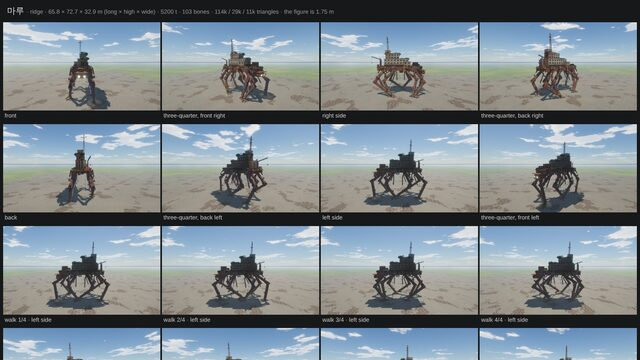
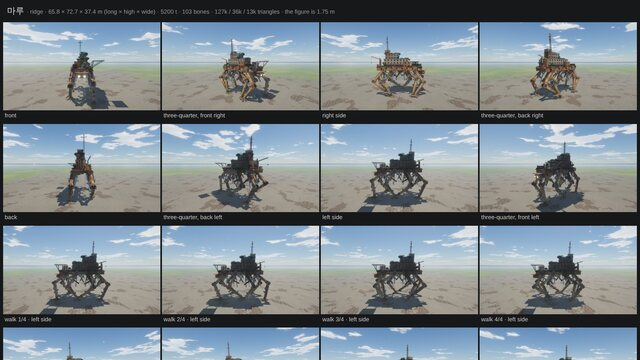
machine-wilds: the relic's cards and sheets in its new paint, a morning of haze in the valley's round, demos rebuilt
Claude-Session: https://claude.ai/code/session_01LWivNf8Y6UtuVJbT9XD7sv

diff --git a/docs/machine-wilds/demo/iron-valley/index.html b/docs/machine-wilds/demo/iron-valley/index.html
@@ -2015,6 +2015,9 @@ void main(){
     autumn:{ cloud: 0.42, dark: 0.0, rain: 0, snowfall: 0, season: 0.45, wind: 0.34, fog: 0.0032, fogH: 0.042, turb: 1.4 },
     // mist: low cloud lying in the valleys — the air itself is what you see; lamps cut cones in it and far things are shapes
     mist:  { cloud: 1.0, dark: 0.3, rain: 0, snowfall: 0, season: 0, wind: 0.1, fog: 0.0125, fogH: 0.034, turb: 1.8, glow: 1 },
+    // haze: a thin bright mist the sun comes through — far things are pale shapes, near things keep their colour, a low sun
+    // stands in shafts.  `cap`: how thick the hour may make it (a dawn does not turn it into a white wall)
+    haze:  { cloud: 0.2, dark: 0.0, rain: 0, snowfall: 0, season: 0, wind: 0.12, fog: 0.0052, fogH: 0.030, turb: 1.4, glow: 0.6, cap: 0.0095 },
   };
   W.cur = Object.assign({}, W.looks.clear);
   W.set = (o) => {
@@ -2075,7 +2078,7 @@ void main(){
     // morning mist lies thick and burns off by nine; an evening only goes a little golden
     const low = LR.sm(0.42, 0.02, Math.abs(sunY)) * (1 - LR.sat(W.rain + W.snowfall)), dawn = LR.sm(4.2, 5.4, W.tod) * LR.sm(9.2, 7.4, W.tod);
     // (a look that is already mist does not grow sixfold at dawn: past 0.016 the valley is a white wall and nothing reads)
-    const fog = Math.max(c.fog * (1 + 0.25 * low), Math.min(c.fog * (1 + low * (0.6 + 4.6 * dawn)), 0.016)) + night * 0.0012;
+    const fog = Math.max(c.fog * (1 + 0.25 * low), Math.min(c.fog * (1 + low * (0.6 + 4.6 * dawn)), (W.looks[W.want.weather] || {}).cap || 0.016)) + night * 0.0012;
     U.uFog.value.set(fog, LR.lerp(c.fogH, 0.02, low * 0.5), W.baseY, 0);
     // woods hold damp air: thick at dawn and toward evening, so the sun shows as shafts between the trunks
     if (LR.canopy) { const lowS = LR.sm(0.66, 0.14, sunY) * day; LR.render.U.uCanopy.value.set(LR.canopy.shade, LR.canopy.mist * (0.004 + 0.017 * lowS) * (1 - 0.75 * LR.sat(W.rain + W.snowfall)), 0, 0); }
@@ -4512,7 +4515,7 @@ void main(){
     // style 'shell': a dark spar inside pale covers (the newer machines) · 'girder': riveted box girders, bare and rusted
     limbs(o = {}) { for (const l of this.kin.limbs) this.limb(l, Object.assign({}, o, l.s.style ? { style: l.s.style } : {})); return this; }
     limb(l, o = {}) {
-      const k = this, w = l.width, d = l.drum, style = o.style || 'shell', cover = style === 'shell' ? 'shell' : 'rust', spar = style === 'shell' ? 'dark' : 'frame';
+      const k = this, w = l.width, d = l.drum, style = o.style || 'shell', casing = style === 'casing', cover = style === 'shell' ? 'shell' : casing ? (k.pal.casing ? 'casing' : 'shell') : 'rust', spar = style === 'shell' ? 'dark' : 'frame', works = k.pal.paint ? 'paint' : cover;      /* casing: the spar boxed in painted plate, a round housing over every joint, a pad under the foot — a heavy leg (roles: casing, paint) */
       const cheek = (g, y0, y1, depth) => { for (const sx of [-1, 1]) g.box(sx * w * 0.56, (y0 + y1) / 2, 0, w * 0.17, y1 - y0, depth, { soft: 0.25 }); };
       const pin = (y, z = 0) => { k.mat('steel'); k.xcyl(-w * 0.72, w * 0.72, y, z, d * 0.2); k.mat('joint'); for (const sx of [-1, 1]) { k.xcyl(sx * w * 0.645, sx * w * 0.72, y, z, d * 0.37, { sides: 16 }); k.bolts('x', [sx * w * 0.72, y, z], d * 0.28, 8, d * 0.035, { dir: sx }); } k.fitPin(l, y, z); };
       // the hip: a bearing the whole leg swings out on, and the yoke the thigh hangs in (mammal) — or a turret with an arm (insect)
@@ -4530,7 +4533,13 @@ void main(){
           // the spar, and its covers
           const taper = last ? 0.72 : 0.88, sw = w * (style === 'shell' ? 0.36 : 0.56), sd = d * (style === 'shell' ? 0.5 : 0.78);
           k.mat(spar); k.loft('y', [[t0 * 0.6, sd * 0.5, sw * 0.5, 0, 0, 5], [L * 0.5, sd * 0.5 * (1 + taper) / 2, sw * 0.5, 0, 0, 5], [t1 + d * 0.2, sd * 0.5 * taper, sw * 0.5 * 0.94, 0, 0, 5]], { sides: 12 });
-          if (style === 'shell') { k.mat(cover); const a = t0 + L * 0.06, b = t1 - L * 0.05, bulge = 0.5 + 0.12 * (1 - i / l.n);
+          if (casing) { const a = t0 + L * 0.04, b = t1 - L * 0.04, cw = w * 0.76, c0 = sd * 1.18, c1 = sd * 1.18 * taper, at = (y) => c0 + ((c1 - c0) * (y - a)) / (b - a);
+            // plate all round, closed at both ends; seams where the plates meet; a band of the works' colour under the joint; the housing the joint turns in
+            k.mat(cover); k.loft('y', [[a, c0 * 0.43, cw * 0.44, 0, 0, 6], [a + L * 0.04, c0 * 0.5, cw * 0.5, 0, 0, 6], [b - L * 0.04, c1 * 0.5, cw * 0.5, 0, 0, 6], [b, c1 * 0.43, cw * 0.44, 0, 0, 6]], { sides: 16 });
+            if (k.mid) { k.mat('frame'); const nr = Math.max(2, Math.round((b - a) / (d * 1.7))); for (let q = 1; q < nr; q++) { const y = a + ((b - a) * q) / nr; g.box(0, y, 0, cw * 1.03, d * 0.05, at(y) * 1.03, { soft: 0.1 }); } }
+            k.mat(works); { const y0 = a + L * 0.06, y1 = a + L * 0.17; k.loft('y', [[y0, at(y0) * 0.515, cw * 0.515, 0, 0, 6], [y1, at(y1) * 0.515, cw * 0.515, 0, 0, 6]], { sides: 16, caps: false }); }
+            for (const sx of [-1, 1]) { k.mat(works); k.xcyl(sx * w * 0.5, sx * w * 0.67, 0, 0, d * 0.66, { sides: 20 }); k.mat('joint'); k.xcyl(sx * w * 0.67, sx * w * 0.705, 0, 0, d * 0.5, { sides: 16 }); k.bolts('x', [sx * w * 0.67, 0, 0], d * 0.58, 12, d * 0.035, { dir: sx }); } }
+          else if (style === 'shell') { k.mat(cover); const a = t0 + L * 0.06, b = t1 - L * 0.05, bulge = 0.5 + 0.12 * (1 - i / l.n);
             // two covers, front and back, with the spar showing in the gap between them at the sides
             for (const [f0, f1, off] of [[-0.42 * Math.PI, 0.42 * Math.PI, d * 0.1], [0.58 * Math.PI, 1.42 * Math.PI, -d * 0.1]])
               k.loft('y', [[a, d * 0.28, w * 0.3, off, 0, 3], [a + L * 0.08, d * bulge, w * 0.5, off, 0, 3], [L * 0.5, d * bulge * 0.94, w * 0.5, off, 0, 3], [b - L * 0.1, d * bulge * taper, w * 0.46, off, 0, 3], [b, d * 0.26, w * 0.28, off, 0, 3]], { sides: 14, from: f0, to: f1, caps: false });
@@ -4549,7 +4558,9 @@ void main(){
       }
       // the foot: a ball in the cup, a hub under it, toes on pins
       k.bone(`foot_${l.name}`, (g) => { const b = l.ball; k.mat('steel'); k.ball(0, 0, 0, b * 0.64); k.mat('frame'); g.lathe(0, 0, [[b * 0.5, -b * 0.25], [b * 1.02, -b * 0.42], [b * 1.12, -b * 0.8], [b * 0.9, -b], [0.01, -b]], { sides: k.n(16) });
-        if (k.mid) { k.mat('joint'); for (const a of l.toes) { const ca = Math.cos(a * D2R), sa = Math.sin(a * D2R); g.box(ca * b * 0.75, -b * 0.42, sa * b * 0.75, b * 0.5, b * 0.46, b * 0.5, { soft: 0.3 }); } } k.fitFoot(l); });
+        if (k.mid) { k.mat('joint'); for (const a of l.toes) { const ca = Math.cos(a * D2R), sa = Math.sin(a * D2R); g.box(ca * b * 0.75, -b * 0.42, sa * b * 0.75, b * 0.5, b * 0.46, b * 0.5, { soft: 0.3 }); } }
+        if (casing) { k.mat('frame'); g.box(0, -b * 0.86, 0, b * 3.0, b * 0.28, b * 3.0, { soft: 0.12 }); k.mat(works); g.box(0, -b * 0.62, 0, b * 2.3, b * 0.22, b * 2.3, { soft: 0.2 }); }      /* a pad: the weight spread over a square of plate */
+        k.fitFoot(l); });
       l.toes.forEach((a, t) => k.bone(`toe${t}_${l.name}`, (g) => { const b = l.ball, L = l.toeLen, heel = Math.abs(a) > 120, LL = heel ? L * 0.62 : L;
         k.mat('joint'); k.xcyl(-b * 0.36, b * 0.36, 0, 0, b * 0.3, { sides: 12 });
         k.mat(style === 'shell' ? 'dark' : 'frame'); k.loft('y', [[b * 0.1, b * 0.3, b * 0.3, 0, 0, 4], [LL * 0.45, b * 0.26, b * 0.36, -b * 0.03, 0, 4], [LL * 0.86, b * 0.17, b * 0.28, -b * 0.1, 0, 4], [LL, b * 0.05, b * 0.06, -b * 0.2, 0, 3]], { sides: 10 });
@@ -8557,10 +8568,10 @@ V.machines = () => {
       // it sets its load down: rises a little first, folds until the bed is low, waits, then stands past its height and settles
       kneel: { dur: 12, main: 'body.dy', keys: { 'body.dy': [[0, 0], [1.0, 0.2], [4.0, -1.7], [8.2, -1.7], [10.6, 0.22], [12, 0]], 'body.pitch': [[0, 0], [1.0, 0.8], [4.0, -2.2], [8.2, -2.2], [10.6, 0.6], [12, 0]], 'head.pitch': [[0, 0], [1.0, -6], [4.2, 14], [8.2, 12], [10.8, -3], [12, 0]], light: [[0, 1], [3.6, 1], [4.2, 0.45], [8, 0.45], [8.6, 1.2], [12, 1]] } } } });
   // 마루: a relic on eight legs — a relay station that never stopped walking its rounds
-  const TL = { kind: 'mammal', width: 2.6, drum: 3.0, bar: 0.5, ball: 1.6, toes: 4, toeLen: 5.0, act: [1, 1], hipDrop: 1.5, style: 'girder', actLat: 1.5 };
+  const TL = { kind: 'mammal', width: 3.6, drum: 3.0, bar: 0.5, ball: 1.6, toes: 4, toeLen: 5.0, act: [1, 1], hipDrop: 1.5, style: 'casing', actLat: 1.5 };
   const titanLegs = [[18, 2.5, 1, 'A'], [6, 1.5, 1, 'B'], [-6, -1.5, -1, 'C'], [-18, -2.5, -1, 'D']].map(([x, dx, knee, n]) => Object.assign({}, TL, { name: n + 'L', at: [x, -2, -9], segs: [17, 18.5], knee, home: [x + dx, -12.5] }));
   M.define('ridge', { title: '마루', age: 1, tonnes: 5200, ride: 34, belly: [20, 4, 7], aware: 0, lensGain: 22, build: (k) => V.parts.ridge(k),
-    palette: { frame: ['rustplate', '#bdb4a4'], rust: ['rustplate', '#d9cfbf'], dark: ['paintmetal', '#3a3d3b'], shell: ['concrete', '#c9c6be'] },
+    palette: { frame: ['paintmetal', '#8f8c7e'], rust: ['rustplate', '#d9cfbf'], dark: ['paintmetal', '#3a3d3b'], shell: ['concrete', '#c9c6be'], casing: ['paintmetal', '#cbc5b0'], paint: ['paintmetal', '#c99f2e'] },      /* grey works paint gone to rust, cream casings, the yellow of what moves or may be stepped off */
     limbs: [...titanLegs, ...titanLegs.map(M.mirror)], neck: { at: [24, -3.5, 0], links: [[3.2, -62]] }, head: { len: 6 },
     extras: [{ name: 'mast', type: 'lag', parent: 'body', at: [-14, 16, 2], dir: [0, 1, 0], len: 22, lag: 0.9, gain: 1.2, maxDeg: 5 }, { name: 'cable_1', type: 'lag', parent: 'body', at: [10, -4.5, -5], dir: [0, -1, 0], len: 13, lag: 1.1, gain: 1.4, maxDeg: 16 }, { name: 'cable_2', type: 'lag', parent: 'body', at: [-9, -4.5, 4], dir: [0, -1, 0], len: 17, lag: 1.3, gain: 1.4, maxDeg: 16 }, { name: 'cable_3', type: 'lag', parent: 'body', at: [-2, -4.5, -6], dir: [0, -1, 0], len: 9, lag: 0.9, gain: 1.4, maxDeg: 16 }],
     gait: { cycle: 15, duty: 0.68, stride: 15, lift: 3.4, offsets: { AL: 0, BL: 0.535, CL: 0.07, DL: 0.605, AR: 0.5, BR: 0.035, CR: 0.57, DR: 0.105 }, crouch: 0.6, dip: 0.9, dipTime: 1.7, sway: 1.1, roll: 0.9, nod: 0.5, yaw: 0.3, footPitch: 8, toeCurl: 10, neckSway: 2, follow: [0.5, 0.25], smooth: 0.5, footTilt: 30, settle: 0.9, settleTime: 3.2, gather: 6, gatherDip: 0.9, gatherBack: 0.8, ease: 16, clear: 1.6 },
@@ -8922,19 +8933,21 @@ V.parts = {
   },
   // 마루: a deck of girders as long as a street, a station on it gone to ruin and moss, a prow with two great eyes
   ridge(k) {
-    k.limbs({ style: 'girder' });
+    k.limbs({ style: 'casing' });
     k.bone('body', (g) => {
       // the deck truss: two box girders, cross frames at every hip, a plated deck
       k.mat('frame'); for (const s of [-1, 1]) g.box(0, -2.2, s * 8.2, 52, 3.4, 2.2, { soft: 0.05, grain: 'x' }); for (const x of [18, 6, -6, -18]) { g.box(x, -2.2, 0, 3.4, 3.0, 18.4, { soft: 0.05 }); for (const s of [-1, 1]) g.box(x, -1.6, s * 9.6, 4.6, 4.6, 1.6, { soft: 0.1 }); }
       if (k.mid) { k.mat('rust'); for (let x = -23; x <= 23; x += 5.8) for (const s of [-1, 1]) { g.beam([x, -3.8, s * 7.2], [x + 2.9, -0.6, s * 7.2], 0.4, 0.4, { caps: false }); g.beam([x + 2.9, -0.6, s * 7.2], [x + 5.8, -3.8, s * 7.2], 0.4, 0.4, { caps: false }); } }
       k.mat('rust'); g.box(0, -0.35, 0, 54, 0.5, 19.6, { soft: 0.03 });
+      // the girders' fascia: painted panels bay by bay, yellow and cream by turns, what is left of them
+      for (const s of [-1, 1]) for (let i = 0; i < 8; i++) { const x = -21 + i * 6; k.mat(i % 2 ? 'casing' : 'paint'); g.box(x, -2.2, s * 9.37, 5.2, 2.7, 0.14, { soft: 0.1 }); }
       // the station: a long house in three steps, panelled in concrete, with rows of windows (some still lit after dark)
-      const house = (x, y, z, sx, sy, sz, seed) => { k.mat('shell', { seed }); g.box(x, y + sy / 2, z, sx, sy, sz, { soft: 0.03, ao: [0.6, 1] }); k.mat('dark'); g.box(x, y + sy + 0.2, z, sx + 0.8, 0.4, sz + 0.8, { soft: 0.1 });
+      const house = (x, y, z, sx, sy, sz, seed, role = 'shell') => { k.mat(role, { seed }); g.box(x, y + sy / 2, z, sx, sy, sz, { soft: 0.03, ao: [0.6, 1] }); k.mat('dark'); g.box(x, y + sy + 0.2, z, sx + 0.8, 0.4, sz + 0.8, { soft: 0.1 });
         const rows = Math.floor(sy / 3.2), cols = Math.floor(sx / 3.4); for (let r = 0; r < rows; r++) for (let c = 0; c < cols; c++) for (const s of [-1, 1]) { const wx = x - sx / 2 + (c + 0.5) * (sx / cols), wy = y + 1.9 + r * 3.2; g.mat('glass', { flags: LR.FLAG.WINDOW, seed: (seed * 31 + r * 7 + c * 13 + (s > 0 ? 5 : 0)) & 255 }); g.quad([wx - 1.0, wy - 0.8, z + s * (sz / 2 + 0.04)], [wx + 1.0, wy - 0.8, z + s * (sz / 2 + 0.04)], [wx + 1.0, wy + 0.8, z + s * (sz / 2 + 0.04)], [wx - 1.0, wy + 0.8, z + s * (sz / 2 + 0.04)], { hint: [0, 0, s] }); } };
-      house(-4, 0, -1, 30, 9.8, 11, 3); house(-9, 9.8, -1.5, 17, 6.6, 8.5, 5); house(9, 0, 5.2, 8, 6.4, 6.4, 7); house(-15, 16.4, -1.5, 6, 4, 6, 9);
+      house(-4, 0, -1, 30, 9.8, 11, 3); house(-9, 9.8, -1.5, 17, 6.6, 8.5, 5); house(9, 0, 5.2, 8, 6.4, 6.4, 7, 'paint'); house(-15, 16.4, -1.5, 6, 4, 6, 9, 'casing');
       // tanks, a crane jib long since stuck, the foot of the mast
-      k.mat('rust'); for (const [x, z] of [[19, -5], [19, -1.2], [22.6, -3]]) { g.tube([[x, 0, z], [x, 6.4, z]], 1.7, { sides: k.n(14), caps: true }); } g.tube([[15, 2.2, 6.5], [23.5, 2.2, 6.5]], 1.9, { sides: k.n(14), caps: true });
-      k.mat('frame'); g.beam([-22, 0, 6], [-22, 9, 6], 1.0, 1.0); g.beam([-22, 9, 6], [-33, 12.5, 7.5], 0.7, 0.9); g.mat('iron', { tint: '#5a5550' }); g.tube([[-33, 12.4, 7.5], [-33, 5.5, 7.5]], 0.07, { sides: 4 }); k.mat('rust'); g.box(-33, 5.2, 7.5, 0.9, 0.8, 0.6, { soft: 0.3 });
+      k.mat('casing'); for (const [x, z] of [[19, -5], [19, -1.2], [22.6, -3]]) { g.tube([[x, 0, z], [x, 6.4, z]], 1.7, { sides: k.n(14), caps: true }); } k.mat('rust'); g.tube([[15, 2.2, 6.5], [23.5, 2.2, 6.5]], 1.9, { sides: k.n(14), caps: true });
+      k.mat('paint'); g.beam([-22, 0, 6], [-22, 9, 6], 1.0, 1.0); g.beam([-22, 9, 6], [-33, 12.5, 7.5], 0.7, 0.9); g.mat('iron', { tint: '#5a5550' }); g.tube([[-33, 12.4, 7.5], [-33, 5.5, 7.5]], 0.07, { sides: 4 }); k.mat('rust'); g.box(-33, 5.2, 7.5, 0.9, 0.8, 0.6, { soft: 0.3 });
       k.mat('frame'); for (const [sx, sz] of [[-1, -1], [1, -1], [1, 1], [-1, 1]]) g.beam([-14 + sx * 1.6, 0, 2 + sz * 1.6], [-14 + sx * 0.9, 16.2, 2 + sz * 0.9], 0.3, 0.3, { caps: false });
       // rails round the deck, what hangs under it
       if (k.mid) { g.mat('iron', { tint: '#6a6660' }); for (const s of [-1, 1]) { g.tube([[-26.8, 1.1, s * 9.6], [26.8, 1.1, s * 9.6]], 0.05, { sides: 4 }); for (let x = -26; x <= 26; x += 4) g.tube([[x, 0, s * 9.6], [x, 1.1, s * 9.6]], 0.05, { sides: 4 }); } }
@@ -8961,12 +8974,22 @@ V.parts = {
       // on the roofs: air plant and ducts, three dishes
       k.mat('frame'); g.box(3, 10.9, -2.2, 3, 1.4, 2.2, { soft: 0.08 }); k.fins([1.3, 10.9, 1.6], [1, 0, 0], 10, 1.3, 2.0, 0.3, { up: [0, 0, 1] }); k.mat('rust'); g.box(6.3, 10.6, 2, 6, 0.8, 0.9, { soft: 0.1 }); g.box(9, 10.6, -0.2, 0.9, 0.8, 4.4, { soft: 0.1 }); k.grille([3, 10.9, -1.08], [0, 0, 1], 2.4, 1.0, { up: [0, 1, 0], t: 0.12 });
       k.dish([8, 10.2, -4], [0.3, 1, -0.4], 1.3); k.dish([-4, 16.8, -4], [-0.5, 1, 0.2], 1.6); k.dish([-11, 16.8, 1], [0.2, 1, 0.5], 1.1); k.mat('frame'); g.box(-6, 17.3, 0.5, 2.2, 1.0, 1.6, { soft: 0.1 }); k.fins([-9.6, 17.3, -1.5], [1, 0, 0], 8, 1.0, 1.5, 0.26, { up: [0, 0, 1] });
+      // a landing stage cantilevered off the bow quarter on struts, its edge still striped
+      k.mat('frame'); g.box(22, 7.2, -15.6, 12, 0.36, 10.4, { soft: 0.05 }); for (const x of [17.4, 26.6]) { g.beam([x, 0.2, -9.4], [x, 7.0, -11.2], 0.5, 0.5); g.beam([x, 0.8, -9.8], [x, 7.0, -19.8], 0.4, 0.4, { caps: false }); } if (k.mid) for (const z of [-12, -15.6, -19.2]) g.beam([16.2, 6.9, z], [27.8, 6.9, z], 0.3, 0.3, { caps: false });
+      k.rail([[16.2, 7.4, -20.6], [22, 7.4, -20.6], [27.8, 7.4, -20.6]], 1.1, [0, 1, 0], { r: 0.05 }); k.rail([[27.9, 7.4, -20.4], [27.9, 7.4, -15.6], [27.9, 7.4, -10.8]], 1.1, [0, 1, 0], { r: 0.05 }); k.mat('paint'); g.box(22, 7.2, -20.86, 12, 0.5, 0.12, { soft: 0.1 }); g.box(28.06, 7.2, -15.6, 0.12, 0.5, 10.4, { soft: 0.1 });
+      k.ladder([16.6, 0, -10.2], [16.6, 7.3, -11.6], 0.7, [-1, 0, 0], { off: 0.28, r: 0.05, step: 0.35 });
+      // cables slung from hip to hip under each edge
+      for (const s of [-1, 1]) for (const [x0, x1] of [[18, 6], [6, -6], [-6, -18]]) k.hose([[x0 - 1.6, -3.9, s * 10.7], [(x0 + x1) / 2 + 2, -6.0, s * 10.95], [(x0 + x1) / 2 - 2, -6.3, s * 10.95], [x1 + 1.6, -3.9, s * 10.7]], 0.17);
+      // trees have taken on the deck and the roofs: a stem, a few crowns that move in the wind
+      { const tr = LR.rng('ridge-trees'); for (const [x, y, z, h] of [[-20.5, 0, -7.6, 5.2], [24.4, 0, 7.4, 3.8], [5.5, 0, -8.2, 4.4], [-1.5, 9.9, 3.2, 3.2], [12.2, 6.5, 4.6, 2.8], [-17.6, 0, 7.8, 4.6], [-10.5, 16.5, -3.6, 2.4]].slice(0, k.lod === 2 ? 3 : 7)) {
+          g.mat('iron', { tint: '#4b4034' }); g.tube([[x, y, z], [x + (tr() - 0.5) * 0.5, y + h * 0.5, z + (tr() - 0.5) * 0.5], [x + (tr() - 0.5) * 0.9, y + h * 0.82, z + (tr() - 0.5) * 0.9]], [0.2 + h * 0.02, 0.13, 0.05], { sides: k.n(6), caps: true });
+          g.mat('moss', { tint: '#6c8348', flags: LR.FLAG.SWAY, weight: 0.5 }); for (let q = 0; q < (k.lod === 2 ? 2 : 4); q++) g.blob(x + (tr() - 0.5) * h * 0.5, y + h * (0.6 + tr() * 0.4), z + (tr() - 0.5) * h * 0.5, h * (0.2 + tr() * 0.14), { squash: [1.15, 0.8, 1.15], seg: k.n(8), rings: 5, seed: q + 3 }); } }
       // forty years of growth: moss banks along every edge, brush on the roofs
       g.mat('moss', { tint: '#5e6b4e', flags: LR.FLAG.SWAY, weight: 0.25 }); const rr = LR.rng('ridge-moss'); for (let i = 0; i < (k.lod === 0 ? 46 : k.lod === 1 ? 24 : 10); i++) { const top = rr() < 0.4, x = -25 + rr() * 50, z = top ? -6 + rr() * 9 : (rr() < 0.5 ? -1 : 1) * (7 + rr() * 2.4), y = top ? (Math.abs(x + 4) < 15 && z < 4.4 ? (Math.abs(x + 9) < 8.5 && z < 2.7 ? 16.6 : 10) : 0.1) : 0.1; g.blob(x, y + 0.3, z, 0.9 + rr() * 1.5, { squash: [1.4, 0.45 + rr() * 0.5, 1.3], seg: k.n(8), rings: 4, seed: i }); }
     });
     k.bone('neck_01', (g) => { k.mat('frame'); g.tube([[0, 0, 0], [0, 3.2, 0]], [2.2, 1.8], { sides: k.n(12), caps: true }); });
     // the prow: a hooded block that turns, two eyes under the hood
-    k.bone('head', (g) => { k.mat('frame'); k.loft('x', [[-3, 2.2, 5.2, 0, 0, 5], [1.5, 2.6, 5.6, 0, 0, 5], [5.5, 1.9, 4.6, -0.3, 0, 4]], { sides: 14 }); k.mat('rust'); g.box(3.6, 2.5, 0, 6.4, 0.5, 11.6, { soft: 0.1 }); k.mat('dark'); for (const s of [-1, 1]) { g.push(new THREE.Matrix4().makeTranslation(5.2, -0.4, s * 2.5).multiply(new THREE.Matrix4().makeRotationZ(-Math.PI / 2 - 0.2))); g.lathe(0, 0, [[1.25, -0.9], [1.4, 0], [1.3, 0.7]], { sides: k.n(14) }); g.pop(); }
+    k.bone('head', (g) => { k.mat('frame'); k.loft('x', [[-3, 2.2, 5.2, 0, 0, 5], [1.5, 2.6, 5.6, 0, 0, 5], [5.5, 1.9, 4.6, -0.3, 0, 4]], { sides: 14 }); k.mat('paint'); g.box(3.6, 2.5, 0, 6.4, 0.5, 11.6, { soft: 0.1 }); k.mat('dark'); for (const s of [-1, 1]) { g.push(new THREE.Matrix4().makeTranslation(5.2, -0.4, s * 2.5).multiply(new THREE.Matrix4().makeRotationZ(-Math.PI / 2 - 0.2))); g.lathe(0, 0, [[1.25, -0.9], [1.4, 0], [1.3, 0.7]], { sides: k.n(14) }); g.pop(); }
       k.grille([5.42, 0.9, 0], [1, 0, 0], 3.0, 0.9, { up: [0, 1, 0], t: 0.2 }); k.hatch([3, 2.75, 0], [0, 1, 0], 2, 1.6, { up: [1, 0, 0], t: 0.1 });
       for (const s of [-1, 1]) { k.along([5.72, -0.52, s * 2.5], [0.95, -0.3, s * 0.03], (g2) => { k.mat('joint'); g2.lathe(0, 0, [[1.16, 0], [1.34, 0.12], [1.16, 0.28]], { sides: k.n(16) }); if (k.mid) { k.mat('steel'); for (let i = 0; i < 16; i++) { const a = (i / 16) * Math.PI * 2; g2.tube([[Math.cos(a) * 1.25, 0.24, Math.sin(a) * 1.25], [Math.cos(a) * 1.25, 0.36, Math.sin(a) * 1.25]], 0.05, { sides: 5, caps: true }); } } });
         k.rail([[0.6, 2.75, s * 5.6], [3.6, 2.75, s * 5.6], [6.6, 2.75, s * 5.6]], 1.1, [0, 1, 0], { r: 0.045 }); k.rivets([-2.6, 0, s * 5.42], [4.6, 0, s * 5.3], 14, 0.07, [0, 0, s]); k.ladder([-2.2, -2.0, s * 5.3], [-2.2, 2.6, s * 5.5], 0.7, [0, 0, s], { off: 0.26, r: 0.05, step: 0.35 }); } });
@@ -9108,7 +9131,7 @@ LR.start({
   strings: V.strings, film: V.film,
   weather: { tod: 20.4, weather: 'mist' },
   // the automatic round of this valley: mist at dusk, into the night, a grey dawn with shafts through the trees, a clear noon, rain, and back
-  round: [{ t: 0, weather: 'mist' }, { t: 26, tod: 23.2 }, { t: 60, tod: 5.6 }, { t: 92, tod: 7.4 }, { t: 110, weather: 'clear', tod: 11.5 }, { t: 138, weather: 'rain', tod: 16.5 }, { t: 176, weather: 'mist', tod: 18.8 }, { t: 200, tod: 20.4 }, { t: 226, end: true }],
+  round: [{ t: 0, weather: 'mist' }, { t: 26, tod: 23.2 }, { t: 60, tod: 5.6 }, { t: 92, weather: 'haze', tod: 7.4 }, { t: 110, weather: 'clear', tod: 11.5 }, { t: 138, weather: 'rain', tod: 16.5 }, { t: 176, weather: 'mist', tod: 18.8 }, { t: 200, tod: 20.4 }, { t: 226, end: true }],
   build: async () => {
     V.land(); V.ruins(); V.machines(); LR.mech.plan(); V.details(); V.plants(); LR.mech.start();
     LR.canopy.mist = 1.5; LR.wx.key = 0.2; LR.world.radius = 262;      /* out past the rim way (240 m, 38 m wide): the walker can go in under the relic */ LR.world.spawn = { x: V.spawn.x, z: V.spawn.z, yaw: 70 };

diff --git a/docs/machine-wilds/demo/starter/index.html b/docs/machine-wilds/demo/starter/index.html
@@ -2015,6 +2015,9 @@ void main(){
     autumn:{ cloud: 0.42, dark: 0.0, rain: 0, snowfall: 0, season: 0.45, wind: 0.34, fog: 0.0032, fogH: 0.042, turb: 1.4 },
     // mist: low cloud lying in the valleys — the air itself is what you see; lamps cut cones in it and far things are shapes
     mist:  { cloud: 1.0, dark: 0.3, rain: 0, snowfall: 0, season: 0, wind: 0.1, fog: 0.0125, fogH: 0.034, turb: 1.8, glow: 1 },
+    // haze: a thin bright mist the sun comes through — far things are pale shapes, near things keep their colour, a low sun
+    // stands in shafts.  `cap`: how thick the hour may make it (a dawn does not turn it into a white wall)
+    haze:  { cloud: 0.2, dark: 0.0, rain: 0, snowfall: 0, season: 0, wind: 0.12, fog: 0.0052, fogH: 0.030, turb: 1.4, glow: 0.6, cap: 0.0095 },
   };
   W.cur = Object.assign({}, W.looks.clear);
   W.set = (o) => {
@@ -2075,7 +2078,7 @@ void main(){
     // morning mist lies thick and burns off by nine; an evening only goes a little golden
     const low = LR.sm(0.42, 0.02, Math.abs(sunY)) * (1 - LR.sat(W.rain + W.snowfall)), dawn = LR.sm(4.2, 5.4, W.tod) * LR.sm(9.2, 7.4, W.tod);
     // (a look that is already mist does not grow sixfold at dawn: past 0.016 the valley is a white wall and nothing reads)
-    const fog = Math.max(c.fog * (1 + 0.25 * low), Math.min(c.fog * (1 + low * (0.6 + 4.6 * dawn)), 0.016)) + night * 0.0012;
+    const fog = Math.max(c.fog * (1 + 0.25 * low), Math.min(c.fog * (1 + low * (0.6 + 4.6 * dawn)), (W.looks[W.want.weather] || {}).cap || 0.016)) + night * 0.0012;
     U.uFog.value.set(fog, LR.lerp(c.fogH, 0.02, low * 0.5), W.baseY, 0);
     // woods hold damp air: thick at dawn and toward evening, so the sun shows as shafts between the trunks
     if (LR.canopy) { const lowS = LR.sm(0.66, 0.14, sunY) * day; LR.render.U.uCanopy.value.set(LR.canopy.shade, LR.canopy.mist * (0.004 + 0.017 * lowS) * (1 - 0.75 * LR.sat(W.rain + W.snowfall)), 0, 0); }
@@ -4512,7 +4515,7 @@ void main(){
     // style 'shell': a dark spar inside pale covers (the newer machines) · 'girder': riveted box girders, bare and rusted
     limbs(o = {}) { for (const l of this.kin.limbs) this.limb(l, Object.assign({}, o, l.s.style ? { style: l.s.style } : {})); return this; }
     limb(l, o = {}) {
-      const k = this, w = l.width, d = l.drum, style = o.style || 'shell', cover = style === 'shell' ? 'shell' : 'rust', spar = style === 'shell' ? 'dark' : 'frame';
+      const k = this, w = l.width, d = l.drum, style = o.style || 'shell', casing = style === 'casing', cover = style === 'shell' ? 'shell' : casing ? (k.pal.casing ? 'casing' : 'shell') : 'rust', spar = style === 'shell' ? 'dark' : 'frame', works = k.pal.paint ? 'paint' : cover;      /* casing: the spar boxed in painted plate, a round housing over every joint, a pad under the foot — a heavy leg (roles: casing, paint) */
       const cheek = (g, y0, y1, depth) => { for (const sx of [-1, 1]) g.box(sx * w * 0.56, (y0 + y1) / 2, 0, w * 0.17, y1 - y0, depth, { soft: 0.25 }); };
       const pin = (y, z = 0) => { k.mat('steel'); k.xcyl(-w * 0.72, w * 0.72, y, z, d * 0.2); k.mat('joint'); for (const sx of [-1, 1]) { k.xcyl(sx * w * 0.645, sx * w * 0.72, y, z, d * 0.37, { sides: 16 }); k.bolts('x', [sx * w * 0.72, y, z], d * 0.28, 8, d * 0.035, { dir: sx }); } k.fitPin(l, y, z); };
       // the hip: a bearing the whole leg swings out on, and the yoke the thigh hangs in (mammal) — or a turret with an arm (insect)
@@ -4530,7 +4533,13 @@ void main(){
           // the spar, and its covers
           const taper = last ? 0.72 : 0.88, sw = w * (style === 'shell' ? 0.36 : 0.56), sd = d * (style === 'shell' ? 0.5 : 0.78);
           k.mat(spar); k.loft('y', [[t0 * 0.6, sd * 0.5, sw * 0.5, 0, 0, 5], [L * 0.5, sd * 0.5 * (1 + taper) / 2, sw * 0.5, 0, 0, 5], [t1 + d * 0.2, sd * 0.5 * taper, sw * 0.5 * 0.94, 0, 0, 5]], { sides: 12 });
-          if (style === 'shell') { k.mat(cover); const a = t0 + L * 0.06, b = t1 - L * 0.05, bulge = 0.5 + 0.12 * (1 - i / l.n);
+          if (casing) { const a = t0 + L * 0.04, b = t1 - L * 0.04, cw = w * 0.76, c0 = sd * 1.18, c1 = sd * 1.18 * taper, at = (y) => c0 + ((c1 - c0) * (y - a)) / (b - a);
+            // plate all round, closed at both ends; seams where the plates meet; a band of the works' colour under the joint; the housing the joint turns in
+            k.mat(cover); k.loft('y', [[a, c0 * 0.43, cw * 0.44, 0, 0, 6], [a + L * 0.04, c0 * 0.5, cw * 0.5, 0, 0, 6], [b - L * 0.04, c1 * 0.5, cw * 0.5, 0, 0, 6], [b, c1 * 0.43, cw * 0.44, 0, 0, 6]], { sides: 16 });
+            if (k.mid) { k.mat('frame'); const nr = Math.max(2, Math.round((b - a) / (d * 1.7))); for (let q = 1; q < nr; q++) { const y = a + ((b - a) * q) / nr; g.box(0, y, 0, cw * 1.03, d * 0.05, at(y) * 1.03, { soft: 0.1 }); } }
+            k.mat(works); { const y0 = a + L * 0.06, y1 = a + L * 0.17; k.loft('y', [[y0, at(y0) * 0.515, cw * 0.515, 0, 0, 6], [y1, at(y1) * 0.515, cw * 0.515, 0, 0, 6]], { sides: 16, caps: false }); }
+            for (const sx of [-1, 1]) { k.mat(works); k.xcyl(sx * w * 0.5, sx * w * 0.67, 0, 0, d * 0.66, { sides: 20 }); k.mat('joint'); k.xcyl(sx * w * 0.67, sx * w * 0.705, 0, 0, d * 0.5, { sides: 16 }); k.bolts('x', [sx * w * 0.67, 0, 0], d * 0.58, 12, d * 0.035, { dir: sx }); } }
+          else if (style === 'shell') { k.mat(cover); const a = t0 + L * 0.06, b = t1 - L * 0.05, bulge = 0.5 + 0.12 * (1 - i / l.n);
             // two covers, front and back, with the spar showing in the gap between them at the sides
             for (const [f0, f1, off] of [[-0.42 * Math.PI, 0.42 * Math.PI, d * 0.1], [0.58 * Math.PI, 1.42 * Math.PI, -d * 0.1]])
               k.loft('y', [[a, d * 0.28, w * 0.3, off, 0, 3], [a + L * 0.08, d * bulge, w * 0.5, off, 0, 3], [L * 0.5, d * bulge * 0.94, w * 0.5, off, 0, 3], [b - L * 0.1, d * bulge * taper, w * 0.46, off, 0, 3], [b, d * 0.26, w * 0.28, off, 0, 3]], { sides: 14, from: f0, to: f1, caps: false });
@@ -4549,7 +4558,9 @@ void main(){
       }
       // the foot: a ball in the cup, a hub under it, toes on pins
       k.bone(`foot_${l.name}`, (g) => { const b = l.ball; k.mat('steel'); k.ball(0, 0, 0, b * 0.64); k.mat('frame'); g.lathe(0, 0, [[b * 0.5, -b * 0.25], [b * 1.02, -b * 0.42], [b * 1.12, -b * 0.8], [b * 0.9, -b], [0.01, -b]], { sides: k.n(16) });
-        if (k.mid) { k.mat('joint'); for (const a of l.toes) { const ca = Math.cos(a * D2R), sa = Math.sin(a * D2R); g.box(ca * b * 0.75, -b * 0.42, sa * b * 0.75, b * 0.5, b * 0.46, b * 0.5, { soft: 0.3 }); } } k.fitFoot(l); });
+        if (k.mid) { k.mat('joint'); for (const a of l.toes) { const ca = Math.cos(a * D2R), sa = Math.sin(a * D2R); g.box(ca * b * 0.75, -b * 0.42, sa * b * 0.75, b * 0.5, b * 0.46, b * 0.5, { soft: 0.3 }); } }
+        if (casing) { k.mat('frame'); g.box(0, -b * 0.86, 0, b * 3.0, b * 0.28, b * 3.0, { soft: 0.12 }); k.mat(works); g.box(0, -b * 0.62, 0, b * 2.3, b * 0.22, b * 2.3, { soft: 0.2 }); }      /* a pad: the weight spread over a square of plate */
+        k.fitFoot(l); });
       l.toes.forEach((a, t) => k.bone(`toe${t}_${l.name}`, (g) => { const b = l.ball, L = l.toeLen, heel = Math.abs(a) > 120, LL = heel ? L * 0.62 : L;
         k.mat('joint'); k.xcyl(-b * 0.36, b * 0.36, 0, 0, b * 0.3, { sides: 12 });
         k.mat(style === 'shell' ? 'dark' : 'frame'); k.loft('y', [[b * 0.1, b * 0.3, b * 0.3, 0, 0, 4], [LL * 0.45, b * 0.26, b * 0.36, -b * 0.03, 0, 4], [LL * 0.86, b * 0.17, b * 0.28, -b * 0.1, 0, 4], [LL, b * 0.05, b * 0.06, -b * 0.2, 0, 3]], { sides: 10 });

diff --git a/machine-wilds/examples/iron-valley/src/90_main.js b/machine-wilds/examples/iron-valley/src/90_main.js
@@ -18,7 +18,7 @@ LR.start({
   strings: V.strings, film: V.film,
   weather: { tod: 20.4, weather: 'mist' },
   // the automatic round of this valley: mist at dusk, into the night, a grey dawn with shafts through the trees, a clear noon, rain, and back
-  round: [{ t: 0, weather: 'mist' }, { t: 26, tod: 23.2 }, { t: 60, tod: 5.6 }, { t: 92, tod: 7.4 }, { t: 110, weather: 'clear', tod: 11.5 }, { t: 138, weather: 'rain', tod: 16.5 }, { t: 176, weather: 'mist', tod: 18.8 }, { t: 200, tod: 20.4 }, { t: 226, end: true }],
+  round: [{ t: 0, weather: 'mist' }, { t: 26, tod: 23.2 }, { t: 60, tod: 5.6 }, { t: 92, weather: 'haze', tod: 7.4 }, { t: 110, weather: 'clear', tod: 11.5 }, { t: 138, weather: 'rain', tod: 16.5 }, { t: 176, weather: 'mist', tod: 18.8 }, { t: 200, tod: 20.4 }, { t: 226, end: true }],
   build: async () => {
     V.land(); V.ruins(); V.machines(); LR.mech.plan(); V.details(); V.plants(); LR.mech.start();
     LR.canopy.mist = 1.5; LR.wx.key = 0.2; LR.world.radius = 262;      /* out past the rim way (240 m, 38 m wide): the walker can go in under the relic */ LR.world.spawn = { x: V.spawn.x, z: V.spawn.z, yaw: 70 };

diff --git a/machine-wilds/references/LESSONS.md b/machine-wilds/references/LESSONS.md
@@ -145,6 +145,15 @@ was learned putting scans into it (scanned-realm), then the engine's own list (l
   Camera 60° off the nose (beams read as shafts), the flare lowered to 1.5 ×. The beam's edge in the air pass is still
   hard from inside; a film keeps its camera out of the beams.
 
+- **Beside a painting of a walking rig in a drowned city, ours was a rust-red lump on thin legs.** → The owner brought a
+  reference picture and asked what would lift ours. What differed, in order of what it cost the eye: one colour (every
+  role was rust plate) → works paint: grey frames, cream casings, yellow on what moves, all let go to rust by the same
+  weathering; legs like table legs → a `casing` leg style (the spar boxed in plate, a round housing over each joint, a
+  pad under the foot) and a wider leg; a flat silhouette → a landing stage off one quarter, cables slung under the edges,
+  trees on the deck; red, hard evening light → a `haze` look, a thin bright mist the sun comes through, shot against the
+  light. A reference is for what is missing, never for the design: the relic is still this valley's walking relay
+  station. Water lying on the floor with the machines in it, vines on the ruins and lettering are still to do.
+
 ## Scans in the engine (scanned-realm)
 ## Scans
 
